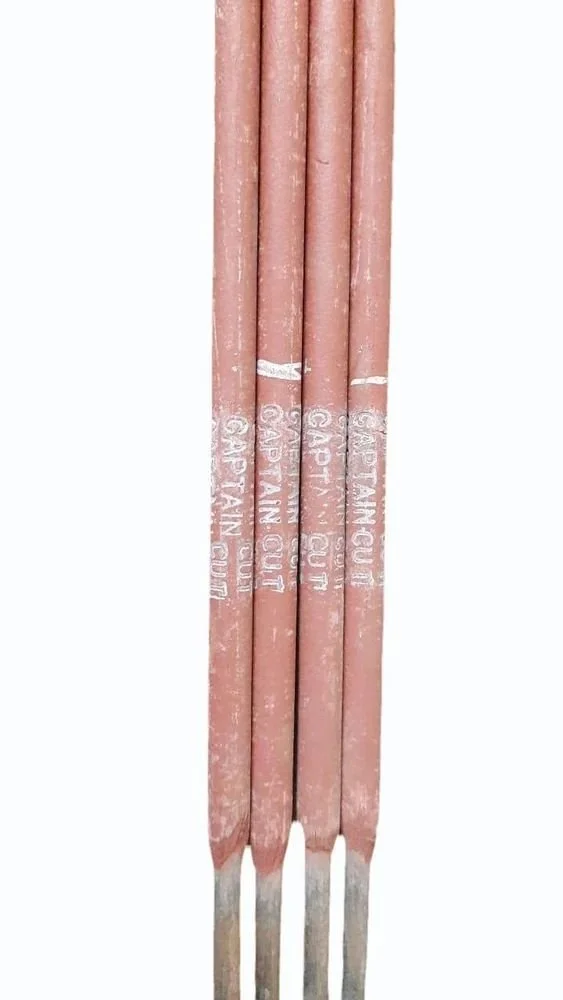
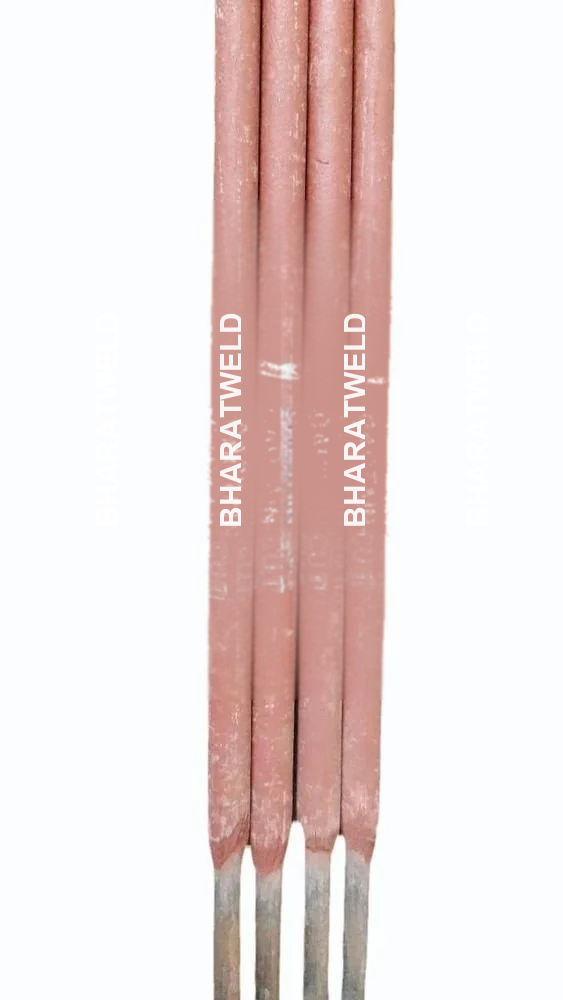
Replace Captain branding with Bharatweld on cutting rods and copy.

Changed region(s): [[0.3623, 0.217, 0.6945, 0.682]]

diff --git a/products/cutting.html b/products/cutting.html
@@ -4,20 +4,20 @@
   <meta charset="UTF-8" />
   <meta name="viewport" content="width=device-width, initial-scale=1" />
   <title>Industrial Cutting Electrodes | Bharatweld | Shubhshrey Industries</title>
-  <meta name="description" content="Bharatweld Captain-Cut industrial cutting and gouging electrodes by Shubhshrey Industries. Cut, pierce, and gouge without oxy-fuel. Made in India." />
+  <meta name="description" content="Bharatweld industrial cutting and gouging electrodes by Shubhshrey Industries. Cut, pierce, and gouge without oxy-fuel. Made in India." />
   <meta name="robots" content="index, follow" />
   <link rel="canonical" href="https://shubhshrey.com/products/cutting" />
   <meta property="og:type" content="product" />
   <meta property="og:site_name" content="Shubhshrey Industries" />
   <meta property="og:title" content="Industrial Cutting Electrodes | Bharatweld" />
-  <meta property="og:description" content="Bharatweld Captain-Cut industrial cutting and gouging electrodes by Shubhshrey Industries. Cut, pierce, and gouge without oxy-fuel. Made in India." />
+  <meta property="og:description" content="Bharatweld industrial cutting and gouging electrodes by Shubhshrey Industries. Cut, pierce, and gouge without oxy-fuel. Made in India." />
   <meta property="og:url" content="https://shubhshrey.com/products/cutting" />
   <meta property="og:image" content="https://shubhshrey.com/assets/products/cutting.png" />
   <meta property="product:brand" content="Bharatweld" />
-  <meta property="product:retailer_item_id" content="BW-CAPTAIN-CUT" />
+  <meta property="product:retailer_item_id" content="BW-CUT" />
   <meta name="twitter:card" content="summary_large_image" />
   <meta name="twitter:title" content="Industrial Cutting Electrodes | Bharatweld" />
-  <meta name="twitter:description" content="Bharatweld Captain-Cut industrial cutting and gouging electrodes by Shubhshrey Industries. Cut, pierce, and gouge without oxy-fuel. Made in India." />
+  <meta name="twitter:description" content="Bharatweld industrial cutting and gouging electrodes by Shubhshrey Industries. Cut, pierce, and gouge without oxy-fuel. Made in India." />
   <meta name="twitter:image" content="https://shubhshrey.com/assets/products/cutting.png" />
   <link rel="icon" href="../assets/logo.png" type="image/png" />
   <link rel="preload" href="../assets/logo.png" as="image" />
@@ -32,9 +32,9 @@
   "@context": "https://schema.org",
   "@type": "Product",
   "name": "Industrial Cutting Electrodes",
-  "sku": "BW-CAPTAIN-CUT",
-  "mpn": "BW-CAPTAIN-CUT",
-  "description": "Bharatweld Captain-Cut cutting electrodes are for metal severing, piercing, gouging, and weld removal on mild steel, cast iron, and non-ferrous metals — a practical tool for maintenance crews and fabrication shops.",
+  "sku": "BW-CUT",
+  "mpn": "BW-CUT",
+  "description": "Bharatweld cutting electrodes are for metal severing, piercing, gouging, and weld removal on mild steel, cast iron, and non-ferrous metals — a practical tool for maintenance crews and fabrication shops.",
   "image": [
     "https://shubhshrey.com/assets/products/cutting.png"
   ],
@@ -110,20 +110,20 @@
           <span aria-hidden="true">/</span>
           <a href="../shop.html#category-cutting">Cutting &amp; Gouging Electrodes</a>
           <span aria-hidden="true">/</span>
-          <span aria-current="page">Captain Cut</span>
+          <span aria-current="page">Cutting</span>
         </nav>
 
         <article class="product-detail" itemscope itemtype="https://schema.org/Product">
           <div class="product-detail__media">
 
             <div data-product-gallery>
-              <img src="../assets/products/cutting.png?v=3" alt="Industrial Cutting Electrodes — Bharatweld welding electrodes packaging" width="1200" height="900" itemprop="image" data-gallery-main />
+              <img src="../assets/products/cutting.png?v=4" alt="Industrial Cutting Electrodes — Bharatweld welding electrodes packaging" width="1200" height="900" itemprop="image" data-gallery-main />
               <div class="product-gallery">
-                <button type="button" class="is-active" data-gallery-thumb data-src="../assets/products/cutting.png?v=3" data-alt="Industrial Cutting Electrodes — Bharatweld welding electrodes packaging">
-                  <img src="../assets/products/cutting.png?v=3" alt="" width="240" height="180" loading="lazy" />
+                <button type="button" class="is-active" data-gallery-thumb data-src="../assets/products/cutting.png?v=4" data-alt="Industrial Cutting Electrodes — Bharatweld welding electrodes packaging">
+                  <img src="../assets/products/cutting.png?v=4" alt="" width="240" height="180" loading="lazy" />
                 </button>
-                <button type="button" data-gallery-thumb data-src="../assets/products/cutting-rods-only.png?v=3" data-alt="Captain Cut electrode rods — Bharatweld">
-                  <img src="../assets/products/cutting-rods-only.png?v=3" alt="" width="240" height="180" loading="lazy" />
+                <button type="button" data-gallery-thumb data-src="../assets/products/cutting-rods-only.png?v=4" data-alt="Cutting electrode rods — Bharatweld">
+                  <img src="../assets/products/cutting-rods-only.png?v=4" alt="" width="240" height="180" loading="lazy" />
                 </button>
               </div>
             </div>
@@ -131,9 +131,9 @@
           <div class="product-detail__info">
             <p class="eyebrow">Cutting &amp; Gouging Electrodes</p>
             <h1 itemprop="name">Industrial Cutting Electrodes</h1>
-            <p class="product-detail__tagline">Captain-Cut electrodes for metal cutting and gouging</p>
-            <p class="product-detail__sku">SKU: <span itemprop="sku">BW-CAPTAIN-CUT</span> | AWS Cutting / gouging type</p>
-            <p itemprop="description">Bharatweld Captain-Cut cutting electrodes are for metal severing, piercing, gouging, and weld removal on mild steel, cast iron, and non-ferrous metals — a practical tool for maintenance crews and fabrication shops.</p>
+            <p class="product-detail__tagline">Bharatweld electrodes for metal cutting and gouging</p>
+            <p class="product-detail__sku">SKU: <span itemprop="sku">BW-CUT</span> | AWS Cutting / gouging type</p>
+            <p itemprop="description">Bharatweld cutting electrodes are for metal severing, piercing, gouging, and weld removal on mild steel, cast iron, and non-ferrous metals — a practical tool for maintenance crews and fabrication shops.</p>
 
             <h2 class="product-detail__subhead">Key benefits</h2>
             <ul class="product-benefits">
@@ -145,13 +145,13 @@
 
             <div class="cta-row">
               <button type="button" class="btn btn--primary" data-buy-now="cutting">Buy now</button>
-              <a class="btn btn--ghost" href="https://wa.me/919168679621?text=Hello%2C%20I%20need%20a%20quote%20for%20Bharatweld%20Captain%20Cut%20%28BW-CAPTAIN-CUT%29." target="_blank" rel="noopener noreferrer">WhatsApp quote</a>
+              <a class="btn btn--ghost" href="https://wa.me/919168679621?text=Hello%2C%20I%20need%20a%20quote%20for%20Bharatweld%20Cutting%20%28BW-CUT%29." target="_blank" rel="noopener noreferrer">WhatsApp quote</a>
               <a class="btn btn--ghost" href="../contact.html">Enquire</a>
             </div>
 
             <div class="amp-picker" data-amp-picker>
               <h2 class="product-detail__subhead">Suggested current by diameter</h2>
-              <p>Pick a diameter to see a typical amperage window for Bharatweld Captain Cut.</p>
+              <p>Pick a diameter to see a typical amperage window for Bharatweld Cutting.</p>
               <div class="amp-picker__chips">
                 <button type="button" class="amp-picker__chip is-active" data-amp data-amp-range="200–300 A" data-amp-tip="Push through plate; keep a long arc for cutting.">4.0 mm</button><button type="button" class="amp-picker__chip" data-amp data-amp-range="250–350 A" data-amp-tip="Faster severing on thicker sections.">5.0 mm</button>
               </div>
@@ -252,8 +252,8 @@
   </a>
 
   <script>document.getElementById("year").textContent = new Date().getFullYear();</script>
-  <script src="../js/products.js?v=10"></script>
+  <script src="../js/products.js?v=11"></script>
   <script src="../js/cart.js?v=6"></script>
-  <script src="../js/main.js?v=13"></script>
+  <script src="../js/main.js?v=14"></script>
 </body>
 </html>

diff --git a/products/e-6013.html b/products/e-6013.html
@@ -117,13 +117,13 @@
           <div class="product-detail__media">
 
             <div data-product-gallery>
-              <img src="../assets/products/e-6013.png?v=3" alt="E6013 Welding Electrodes — Bharatweld welding electrodes packaging" width="1200" height="900" itemprop="image" data-gallery-main />
+              <img src="../assets/products/e-6013.png?v=4" alt="E6013 Welding Electrodes — Bharatweld welding electrodes packaging" width="1200" height="900" itemprop="image" data-gallery-main />
               <div class="product-gallery">
-                <button type="button" class="is-active" data-gallery-thumb data-src="../assets/products/e-6013.png?v=3" data-alt="E6013 Welding Electrodes — Bharatweld welding electrodes packaging">
-                  <img src="../assets/products/e-6013.png?v=3" alt="" width="240" height="180" loading="lazy" />
+                <button type="button" class="is-active" data-gallery-thumb data-src="../assets/products/e-6013.png?v=4" data-alt="E6013 Welding Electrodes — Bharatweld welding electrodes packaging">
+                  <img src="../assets/products/e-6013.png?v=4" alt="" width="240" height="180" loading="lazy" />
                 </button>
-                <button type="button" data-gallery-thumb data-src="../assets/products/e-6013-rods-only.png?v=3" data-alt="E6013 electrode rods — Bharatweld">
-                  <img src="../assets/products/e-6013-rods-only.png?v=3" alt="" width="240" height="180" loading="lazy" />
+                <button type="button" data-gallery-thumb data-src="../assets/products/e-6013-rods-only.png?v=4" data-alt="E6013 electrode rods — Bharatweld">
+                  <img src="../assets/products/e-6013-rods-only.png?v=4" alt="" width="240" height="180" loading="lazy" />
                 </button>
               </div>
             </div>
@@ -203,7 +203,7 @@
         <div class="product-grid product-grid--related">
         <article class="product-item">
           <a class="product-item__media" href="/products/e-7018">
-            <img src="../assets/products/e-7018.png?v=3" alt="E7018 Welding Electrodes - Bharatweld" width="480" height="360" loading="lazy" />
+            <img src="../assets/products/e-7018.png?v=4" alt="E7018 Welding Electrodes - Bharatweld" width="480" height="360" loading="lazy" />
           </a>
           <div class="product-item__body">
             <p class="product-item__cat">Low Hydrogen Structural Electrodes</p>
@@ -282,8 +282,8 @@
   </a>
 
   <script>document.getElementById("year").textContent = new Date().getFullYear();</script>
-  <script src="../js/products.js?v=10"></script>
+  <script src="../js/products.js?v=11"></script>
   <script src="../js/cart.js?v=6"></script>
-  <script src="../js/main.js?v=13"></script>
+  <script src="../js/main.js?v=14"></script>
 </body>
 </html>

diff --git a/products/e-7018.html b/products/e-7018.html
@@ -117,13 +117,13 @@
           <div class="product-detail__media">
 
             <div data-product-gallery>
-              <img src="../assets/products/e-7018.png?v=3" alt="E7018 Welding Electrodes — Bharatweld welding electrodes packaging" width="1200" height="900" itemprop="image" data-gallery-main />
+              <img src="../assets/products/e-7018.png?v=4" alt="E7018 Welding Electrodes — Bharatweld welding electrodes packaging" width="1200" height="900" itemprop="image" data-gallery-main />
               <div class="product-gallery">
-                <button type="button" class="is-active" data-gallery-thumb data-src="../assets/products/e-7018.png?v=3" data-alt="E7018 Welding Electrodes — Bharatweld welding electrodes packaging">
-                  <img src="../assets/products/e-7018.png?v=3" alt="" width="240" height="180" loading="lazy" />
+                <button type="button" class="is-active" data-gallery-thumb data-src="../assets/products/e-7018.png?v=4" data-alt="E7018 Welding Electrodes — Bharatweld welding electrodes packaging">
+                  <img src="../assets/products/e-7018.png?v=4" alt="" width="240" height="180" loading="lazy" />
                 </button>
-                <button type="button" data-gallery-thumb data-src="../assets/products/e-7018-rods-only.png?v=3" data-alt="E7018 electrode rods — Bharatweld">
-                  <img src="../assets/products/e-7018-rods-only.png?v=3" alt="" width="240" height="180" loading="lazy" />
+                <button type="button" data-gallery-thumb data-src="../assets/products/e-7018-rods-only.png?v=4" data-alt="E7018 electrode rods — Bharatweld">
+                  <img src="../assets/products/e-7018-rods-only.png?v=4" alt="" width="240" height="180" loading="lazy" />
                 </button>
               </div>
             </div>
@@ -203,7 +203,7 @@
         <div class="product-grid product-grid--related">
         <article class="product-item">
           <a class="product-item__media" href="/products/e-6013">
-            <img src="../assets/products/e-6013.png?v=3" alt="E6013 Welding Electrodes - Bharatweld" width="480" height="360" loading="lazy" />
+            <img src="../assets/products/e-6013.png?v=4" alt="E6013 Welding Electrodes - Bharatweld" width="480" height="360" loading="lazy" />
           </a>
           <div class="product-item__body">
             <p class="product-item__cat">Mild Steel Welding Electrodes</p>
@@ -282,8 +282,8 @@
   </a>
 
   <script>document.getElementById("year").textContent = new Date().getFullYear();</script>
-  <script src="../js/products.js?v=10"></script>
+  <script src="../js/products.js?v=11"></script>
   <script src="../js/cart.js?v=6"></script>
-  <script src="../js/main.js?v=13"></script>
+  <script src="../js/main.js?v=14"></script>
 </body>
 </html>

diff --git a/products/manganese.html b/products/manganese.html
@@ -117,13 +117,13 @@
           <div class="product-detail__media">
 
             <div data-product-gallery>
-              <img src="../assets/products/manganese.png?v=3" alt="Manganese Hardfacing Electrodes — Bharatweld welding electrodes packaging" width="1200" height="900" itemprop="image" data-gallery-main />
+              <img src="../assets/products/manganese.png?v=4" alt="Manganese Hardfacing Electrodes — Bharatweld welding electrodes packaging" width="1200" height="900" itemprop="image" data-gallery-main />
               <div class="product-gallery">
-                <button type="button" class="is-active" data-gallery-thumb data-src="../assets/products/manganese.png?v=3" data-alt="Manganese Hardfacing Electrodes — Bharatweld welding electrodes packaging">
-                  <img src="../assets/products/manganese.png?v=3" alt="" width="240" height="180" loading="lazy" />
+                <button type="button" class="is-active" data-gallery-thumb data-src="../assets/products/manganese.png?v=4" data-alt="Manganese Hardfacing Electrodes — Bharatweld welding electrodes packaging">
+                  <img src="../assets/products/manganese.png?v=4" alt="" width="240" height="180" loading="lazy" />
                 </button>
-                <button type="button" data-gallery-thumb data-src="../assets/products/manganese-rods-only.png?v=3" data-alt="Manganese electrode rods — Bharatweld">
-                  <img src="../assets/products/manganese-rods-only.png?v=3" alt="" width="240" height="180" loading="lazy" />
+                <button type="button" data-gallery-thumb data-src="../assets/products/manganese-rods-only.png?v=4" data-alt="Manganese electrode rods — Bharatweld">
+                  <img src="../assets/products/manganese-rods-only.png?v=4" alt="" width="240" height="180" loading="lazy" />
                 </button>
               </div>
             </div>
@@ -252,8 +252,8 @@
   </a>
 
   <script>document.getElementById("year").textContent = new Date().getFullYear();</script>
-  <script src="../js/products.js?v=10"></script>
+  <script src="../js/products.js?v=11"></script>
   <script src="../js/cart.js?v=6"></script>
-  <script src="../js/main.js?v=13"></script>
+  <script src="../js/main.js?v=14"></script>
 </body>
 </html>

diff --git a/products/e-308l.html b/products/e-308l.html
@@ -117,13 +117,13 @@
           <div class="product-detail__media">
 
             <div data-product-gallery>
-              <img src="../assets/products/e-308l.png?v=3" alt="E308L Stainless Steel Electrodes — Bharatweld welding electrodes packaging" width="1200" height="900" itemprop="image" data-gallery-main />
+              <img src="../assets/products/e-308l.png?v=4" alt="E308L Stainless Steel Electrodes — Bharatweld welding electrodes packaging" width="1200" height="900" itemprop="image" data-gallery-main />
               <div class="product-gallery">
-                <button type="button" class="is-active" data-gallery-thumb data-src="../assets/products/e-308l.png?v=3" data-alt="E308L Stainless Steel Electrodes — Bharatweld welding electrodes packaging">
-                  <img src="../assets/products/e-308l.png?v=3" alt="" width="240" height="180" loading="lazy" />
+                <button type="button" class="is-active" data-gallery-thumb data-src="../assets/products/e-308l.png?v=4" data-alt="E308L Stainless Steel Electrodes — Bharatweld welding electrodes packaging">
+                  <img src="../assets/products/e-308l.png?v=4" alt="" width="240" height="180" loading="lazy" />
                 </button>
-                <button type="button" data-gallery-thumb data-src="../assets/products/e-308l-rods-only.png?v=3" data-alt="E308L electrode rods — Bharatweld">
-                  <img src="../assets/products/e-308l-rods-only.png?v=3" alt="" width="240" height="180" loading="lazy" />
+                <button type="button" data-gallery-thumb data-src="../assets/products/e-308l-rods-only.png?v=4" data-alt="E308L electrode rods — Bharatweld">
+                  <img src="../assets/products/e-308l-rods-only.png?v=4" alt="" width="240" height="180" loading="lazy" />
                 </button>
               </div>
             </div>
@@ -252,8 +252,8 @@
   </a>
 
   <script>document.getElementById("year").textContent = new Date().getFullYear();</script>
-  <script src="../js/products.js?v=10"></script>
+  <script src="../js/products.js?v=11"></script>
   <script src="../js/cart.js?v=6"></script>
-  <script src="../js/main.js?v=13"></script>
+  <script src="../js/main.js?v=14"></script>
 </body>
 </html>

diff --git a/js/products.js b/js/products.js
@@ -109,17 +109,17 @@ const PRODUCTS = [
   },
   {
     id: "cutting",
-    sku: "BW-CAPTAIN-CUT",
+    sku: "BW-CUT",
     name: "Industrial Cutting Electrodes",
-    shortName: "Captain Cut",
+    shortName: "Cutting",
     category: "Cutting & Gouging Electrodes",
     categoryGroup: "cutting",
-    tagline: "Captain-Cut electrodes for metal cutting and gouging",
+    tagline: "Bharatweld electrodes for metal cutting and gouging",
     description:
-      "Bharatweld Captain-Cut cutting electrodes are for metal severing, piercing, gouging, and weld removal on mild steel, cast iron, and non-ferrous metals - a practical tool for maintenance crews and fabrication shops.",
+      "Bharatweld cutting electrodes are for metal severing, piercing, gouging, and weld removal on mild steel, cast iron, and non-ferrous metals - a practical tool for maintenance crews and fabrication shops.",
     price: 2500,
     unit: "",
-    image: "/assets/products/cutting.png?v=3",
+    image: "/assets/products/cutting.png?v=4",
     current: "AC / DC",
     aws: "Cutting / gouging type",
     coating: "Special cutting flux",
@@ -221,7 +221,7 @@ const INDUSTRIES = [
     grades: "Industrial Cutting Electrodes",
     summary:
       "Cut, pierce, and gouge metal for maintenance, demolition, and repair without oxy-fuel equipment.",
-    image: "/assets/products/cutting.png?v=3",
+    image: "/assets/products/cutting.png?v=4",
   },
   {
     id: "hardfacing",

diff --git a/industries.html b/industries.html
@@ -116,13 +116,13 @@
       <div class="container industry-detail">
         <div class="split">
           <div class="reveal">
-            <p class="eyebrow">Captain-Cut</p>
+            <p class="eyebrow">Bharatweld Cutting</p>
             <h2>Cutting &amp; maintenance</h2>
             <p>Cut, pierce, and gouge metal for maintenance, demolition, and repair without oxy-fuel equipment.</p>
             <p><strong>Industries:</strong> Maintenance, demolition, foundries, general fabrication.</p>
             <a class="btn btn--primary" href="/products/cutting">View Cutting Electrodes</a>
           </div>
-          <img class="product-photo reveal" src="assets/products/cutting.png?v=3" alt="Captain-Cut cutting welding electrodes with packaging" width="1200" height="900" />
+          <img class="product-photo reveal" src="assets/products/cutting.png?v=4" alt="Bharatweld cutting welding electrodes with packaging" width="1200" height="900" />
         </div>
       </div>
     </section>
@@ -209,9 +209,9 @@
   <script>
     document.getElementById("year").textContent = new Date().getFullYear();
   </script>
-  <script src="js/products.js?v=10"></script>
+  <script src="js/products.js?v=11"></script>
   <script src="js/cart.js?v=6"></script>
-  <script src="js/main.js?v=13"></script>
+  <script src="js/main.js?v=14"></script>
 </body>
 </html>
 

diff --git a/index.html b/index.html
@@ -221,7 +221,7 @@
               </footer>
             </blockquote>
             <blockquote class="testimonial-slide">
-              <p>"Captain-Cut electrodes save us time on maintenance - cutting through old welds and rusty plate without extra equipment."</p>
+              <p>"Bharatweld cutting electrodes save us time on maintenance - cutting through old welds and rusty plate without extra equipment."</p>
               <footer>
                 <strong>Suresh Kulkarni</strong>
                 <span>Kulkarni Engineering, Kolhapur</span>
@@ -328,9 +328,9 @@
   <script>
     document.getElementById("year").textContent = new Date().getFullYear();
   </script>
-  <script src="js/products.js?v=10"></script>
+  <script src="js/products.js?v=11"></script>
   <script src="js/cart.js?v=6"></script>
-  <script src="js/main.js?v=13"></script>
+  <script src="js/main.js?v=14"></script>
 </body>
 </html>
 

diff --git a/approvals.html b/approvals.html
@@ -133,7 +133,7 @@
 
           <li><strong>E308L-16</strong> - Stainless steel electrodes for 304/308-type applications</li>
 
-          <li><strong>Cutting electrodes</strong> - Captain-Cut industrial cutting and gouging</li>
+          <li><strong>Cutting electrodes</strong> - Bharatweld industrial cutting and gouging</li>
 
           <li><strong>Manganese hardfacing</strong> - Wear-resistant overlay electrodes</li>
 
@@ -226,11 +226,11 @@
 
   </script>
 
-  <script src="js/products.js?v=10"></script>
+  <script src="js/products.js?v=11"></script>
 
   <script src="js/cart.js?v=6"></script>
 
-  <script src="js/main.js?v=13"></script>
+  <script src="js/main.js?v=14"></script>
 
 </body>
 

diff --git a/js/main.js b/js/main.js
@@ -352,7 +352,7 @@ const GRADE_STAGE_COPY = {
     why: "Extra-low carbon stainless for 304/308 food, chemical, and architectural work.",
   },
   cutting: {
-    why: "Captain-Cut for severing, piercing, and gouging without oxy-fuel gear.",
+    why: "Bharatweld cutting electrodes for severing, piercing, and gouging without oxy-fuel gear.",
   },
   manganese: {
     why: "High-manganese overlays for crushers, rails, and heavy abrasion + impact.",

diff --git a/about.html b/about.html
@@ -291,9 +291,9 @@
   <script>
     document.getElementById("year").textContent = new Date().getFullYear();
   </script>
-  <script src="js/products.js?v=10"></script>
+  <script src="js/products.js?v=11"></script>
   <script src="js/cart.js?v=6"></script>
-  <script src="js/main.js?v=13"></script>
+  <script src="js/main.js?v=14"></script>
 </body>
 </html>
 

diff --git a/welding-process.html b/welding-process.html
@@ -381,9 +381,9 @@
   <script>
     document.getElementById("year").textContent = new Date().getFullYear();
   </script>
-  <script src="js/products.js?v=10"></script>
+  <script src="js/products.js?v=11"></script>
   <script src="js/cart.js?v=6"></script>
-  <script src="js/main.js?v=13"></script>
+  <script src="js/main.js?v=14"></script>
 </body>
 </html>
 
